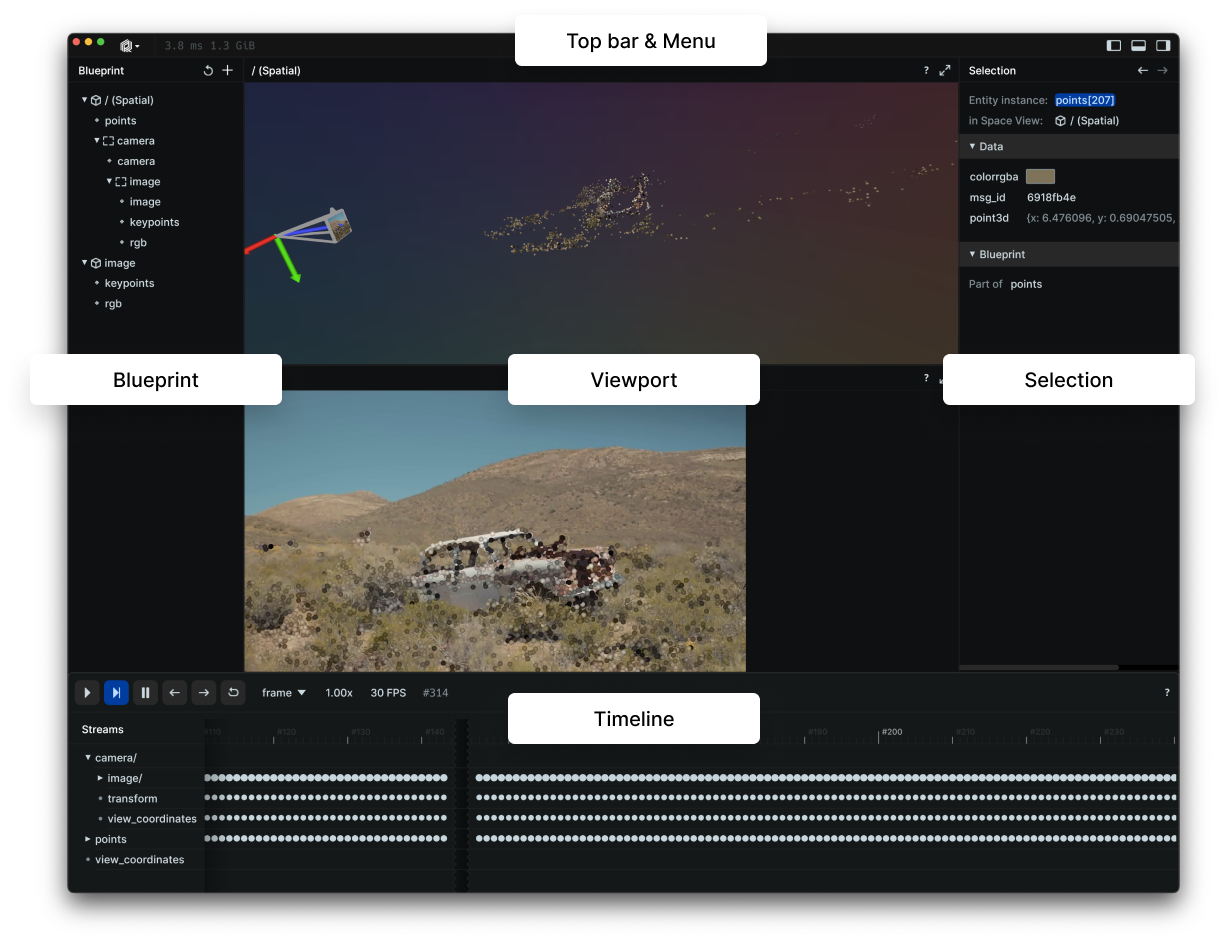
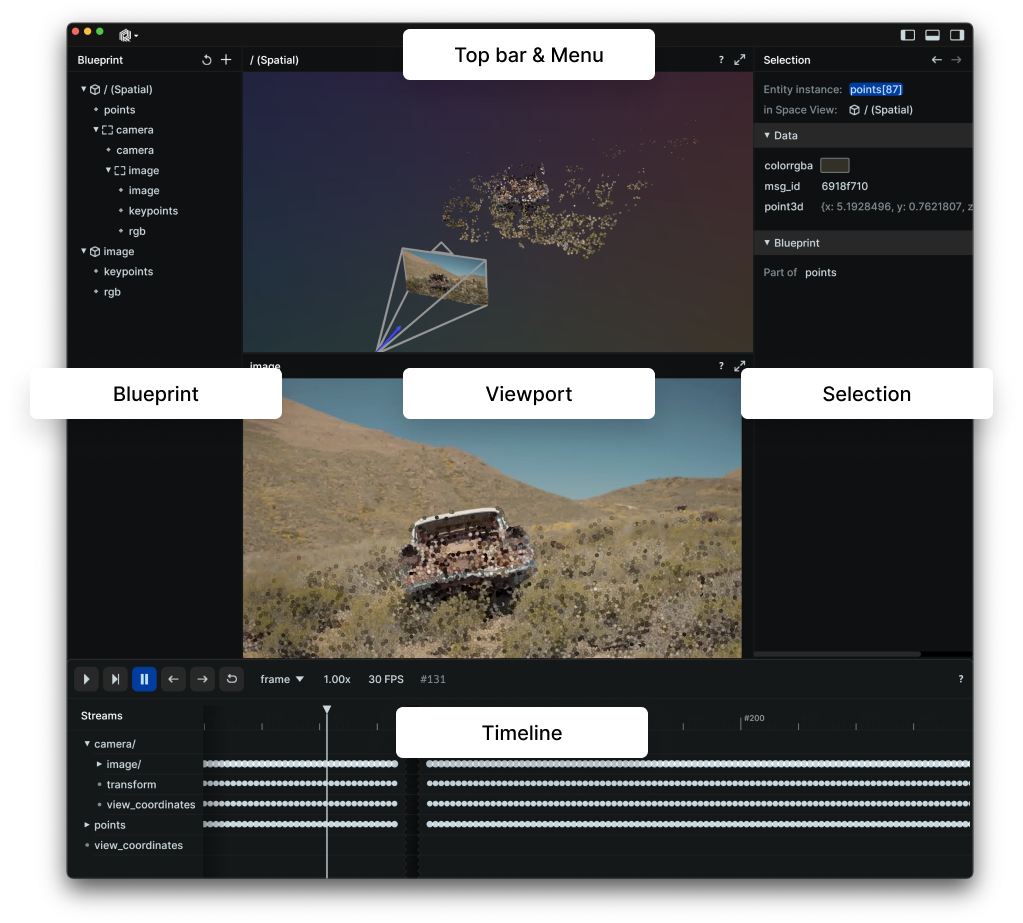
improve overview image. add something about event log

Changed region(s): [[0.0303, 0.0, 0.9697, 0.9707], [0.7273, 0.7584, 0.7576, 0.7887]]

diff --git a/docs/reference/viewer/overview.md b/docs/reference/viewer/overview.md
@@ -2,7 +2,6 @@
 title: Overview
 order: 0
 ---
-
 The following sections give an overview of the basic ui concepts and where to find which functionality.
 
 Generally, the viewer tries to be as self-explaining as possible - most items in the ui show a tooltip upon hovering which should give additional information.
@@ -10,7 +9,6 @@ If you are missing a piece of information, don't hesitate to [file an issue](htt
 
 Overview
 --------------------------
-
 ![screenshot of the viewer with different parts annotated](/docs-media/viewer-overview.png)
 
 ### [Blueprint](reference/viewer/blueprint.md)
@@ -40,11 +38,17 @@ Once it's open just start typing to filter and press `Enter` to execute the sele
 
 [TODO(#1132)](https://github.com/rerun-io/rerun/issues/1132): The command palette is too limited right now.
 
-
 Help icons
 ----------
 Most views have an info icon at the top right corner.
-
 ![help icon](/docs-media/help-icon.png)
-
 On hover it displays additional information on how to use a view.
+
+Event Log
+---------
+By default, the viewer will show the main viewport in order to explore your data.
+With the Event Log, the viewer offers a dedicated mode for exploring raw logged raw messages from your application which will hide the main viewport.
+
+You switch back and forth between the Viewport and the Event Log with the main menu in the top bar:
+![the event log and how to get there](/docs-media/event-log.png)
+The Event Log shows all messages in a comprehensive table in the order they arrive in.
